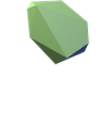
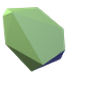
Setup the newest, hopefully permanent layout

diff --git a/app/assets/stylesheets/scaffolds.css.scss b/app/assets/stylesheets/scaffolds.css.scss
@@ -14,6 +14,9 @@ body {
     color: #000;
     font-family: 'Arimo', Helvetica, sans-serif;
     font-size: 16px;
+    background-image: url('background.png');
+    background-repeat: no-repeat;
+    background-position: -220px 0px;
 }
 
 h1 {
@@ -102,3 +105,8 @@ h1 {
 .hover {
     margin-top:-20px;
 }
+
+#stones {
+    padding-top: 10px;
+}
+
